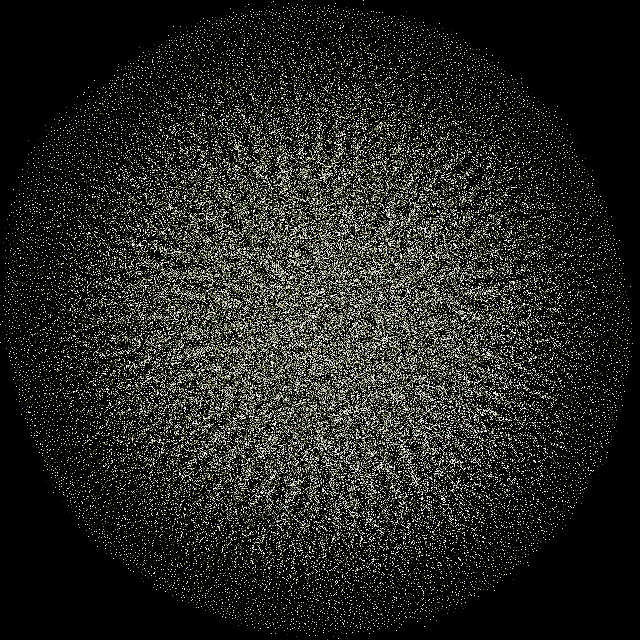
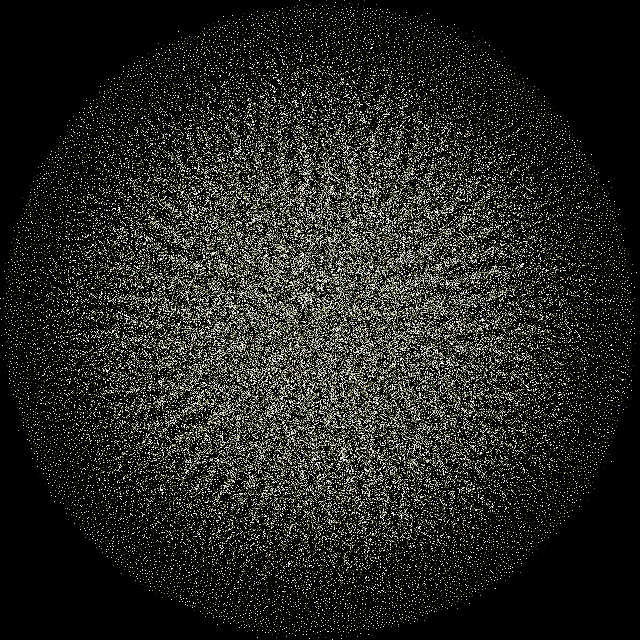
0085 - /Users/whittemore/.nvm/versions/node/v4.2.2/bin/node /index.js

diff --git a/sketches/0085/index.js b/sketches/0085/index.js
@@ -40,7 +40,12 @@ co(function*(){
 	}
 
 	console.log('connecting nodes');
-	var connections = [300, 500, 800, 1300];
+	var connections = [100, 200];
+	var size = 10;
+	for (var i=1; i<size; i++) {
+		connections.push(connections[i-1] + connections[i]);
+	}
+	console.log(connections);
 	for (var i=0; i < setOfColors.length - connections[0]; i++) {
 		var color = setOfColors[i];
 		for (var j=0; j<connections.length; j++) {
